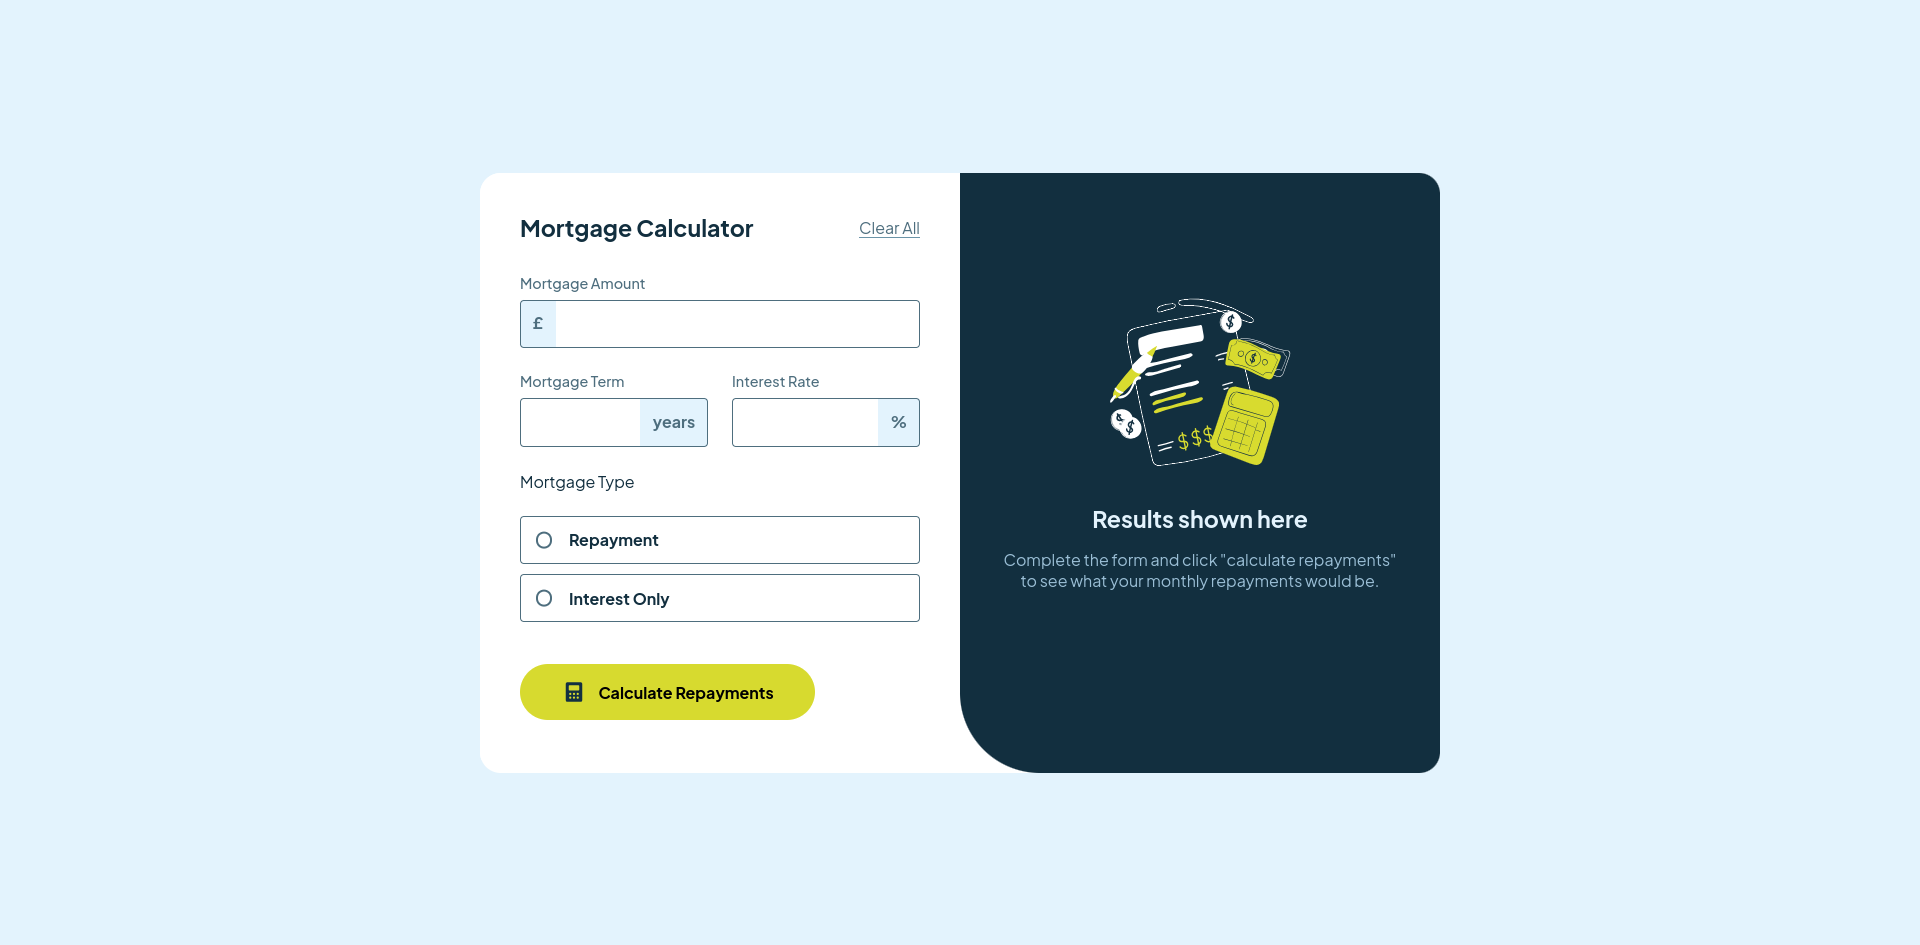
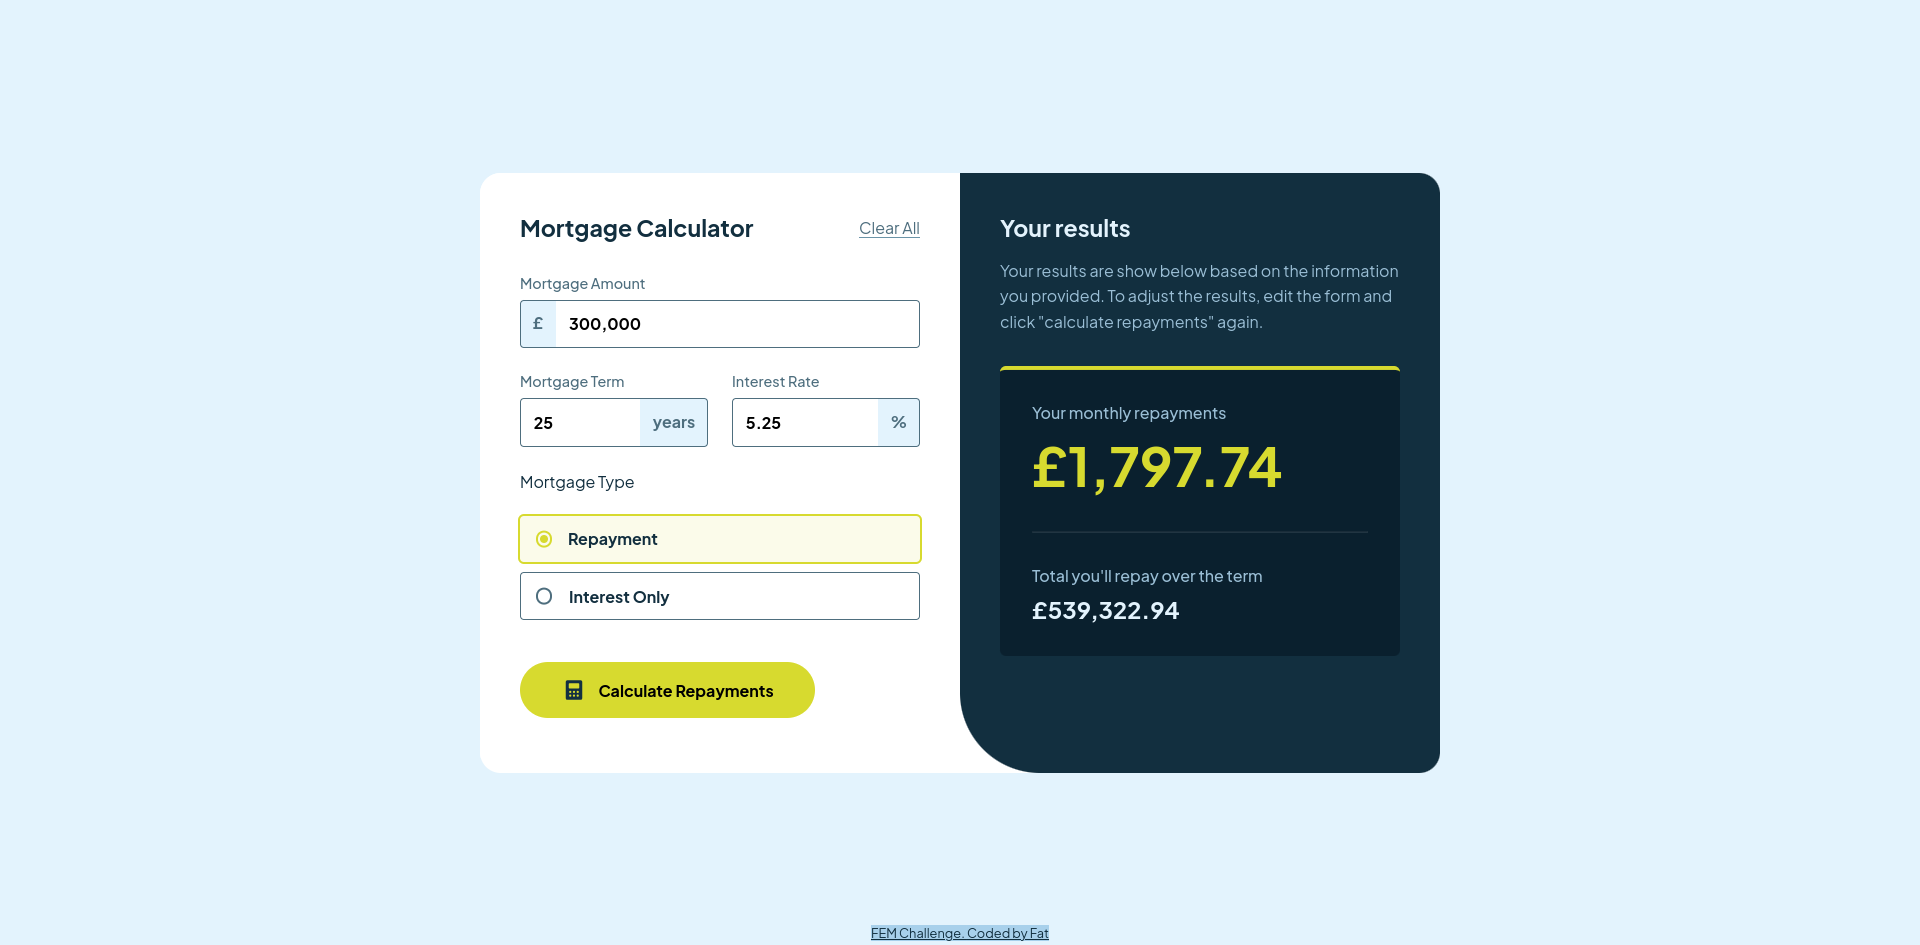
added links
-> footer link
-> readme file
-> screenshot
-> function call on load

diff --git a/index.html b/index.html
@@ -33,7 +33,7 @@
             <!-- mortgage amount -->
             <div class="field fl-c">
               <div class="input-container">
-                <input type="text" id="mortgage-amount" />
+                <input type="text" id="mortgage-amount" value="300,000"/>
                 <span>£</span>
               </div>
               <label for="mortgage-amount">mortgage amount</label>
@@ -43,7 +43,7 @@
               <!-- mortgage term -->
               <div class="field fl-c">
                 <div class="input-container">
-                  <input type="number" id="mortgage-term" />
+                  <input type="number" id="mortgage-term" value="25"/>
                   <span>years</span>
                 </div>
                 <label for="mortgage-term">mortgage term</label>
@@ -52,7 +52,7 @@
               <!-- interest rate -->
               <div class="field fl-c">
                 <div class="input-container">
-                  <input type="number" id="interest-rate" step="0.01" />
+                  <input type="number" id="interest-rate" step="0.01"  value="5.25"/>
                   <span>%</span>
                 </div>
                 <label for="interest-rate">interest rate</label>
@@ -71,6 +71,7 @@
                   id="repayment"
                   name="mortgage-type"
                   value="repayment"
+                  checked
                 />
                 <label for="repayment">repayment</label>
               </div>
@@ -116,5 +117,12 @@
         </div>
       </div>
     </main>
+
+    <footer>
+      <a href="https://www.frontendmentor.io/challenges">FEM Challenge. </a
+      ><a href="https://github.com/Fahatmah?tab=repositories" target="_blank"
+        >Coded by Fat</a
+      >
+    </footer>
   </body>
 </html>

diff --git a/css/stylesheet.css b/css/stylesheet.css
@@ -117,3 +117,17 @@ main #mortgageCalculator {
     overflow: hidden;
   }
 }
+
+footer {
+  position: absolute;
+  bottom: 0.2rem;
+  left: 50%;
+  transform: translateX(-50%);
+}
+
+footer a {
+  font-size: 0.8rem;
+  color: var(--clr-slate-900);
+  text-decoration: underline;
+  background-color: hsl(204, 62%, 79%);
+}

diff --git a/script.js b/script.js
@@ -228,3 +228,7 @@ function addCommas(el) {
     el.value = parts.join('.')
   }
 }
+
+document.addEventListener('DOMContentLoaded', () => {
+  calculateMortgageRepayment(300000, 25, 5.25)
+})

diff --git a/README.md b/README.md
@@ -1,0 +1,51 @@
+# Frontend Mentor - Mortgage repayment calculator solution
+
+![](./screenshot.png)
+
+This is a solution to the
+[Mortgage repayment calculator challenge on Frontend Mentor](https://www.frontendmentor.io/challenges/mortgage-repayment-calculator-Galx1LXK73).
+Frontend Mentor challenges help you improve your coding skills by building
+realistic projects.
+
+## Table of contents
+
+- [Overview](#overview)
+  - [The challenge](#the-challenge)
+  - [Screenshot](#screenshot)
+  - [Links](#links)
+- [My process](#my-process)
+  - [Built with](#built-with)
+  - [Continued development](#continued-development)
+- [Author](#author)
+
+## Overview
+
+### The challenge
+
+Users should be able to:
+
+- Input mortgage information and see monthly repayment and total repayment
+  amounts after submitting the form
+- See form validation messages if any field is incomplete
+- Complete the form only using their keyboard
+- View the optimal layout for the interface depending on their device's screen
+  size
+- See hover and focus states for all interactive elements on the page
+
+### Links
+
+- Solution URL: []()
+- Live Site URL: []()
+
+## My process
+
+### Built with
+
+- Semantic HTML5 markup
+- CSS custom properties
+- Flexbox
+- Mobile-first workflow
+
+## Author
+
+- Frontend Mentor - [@Fahatmah](https://www.frontendmentor.io/profile/Fahatmah)
